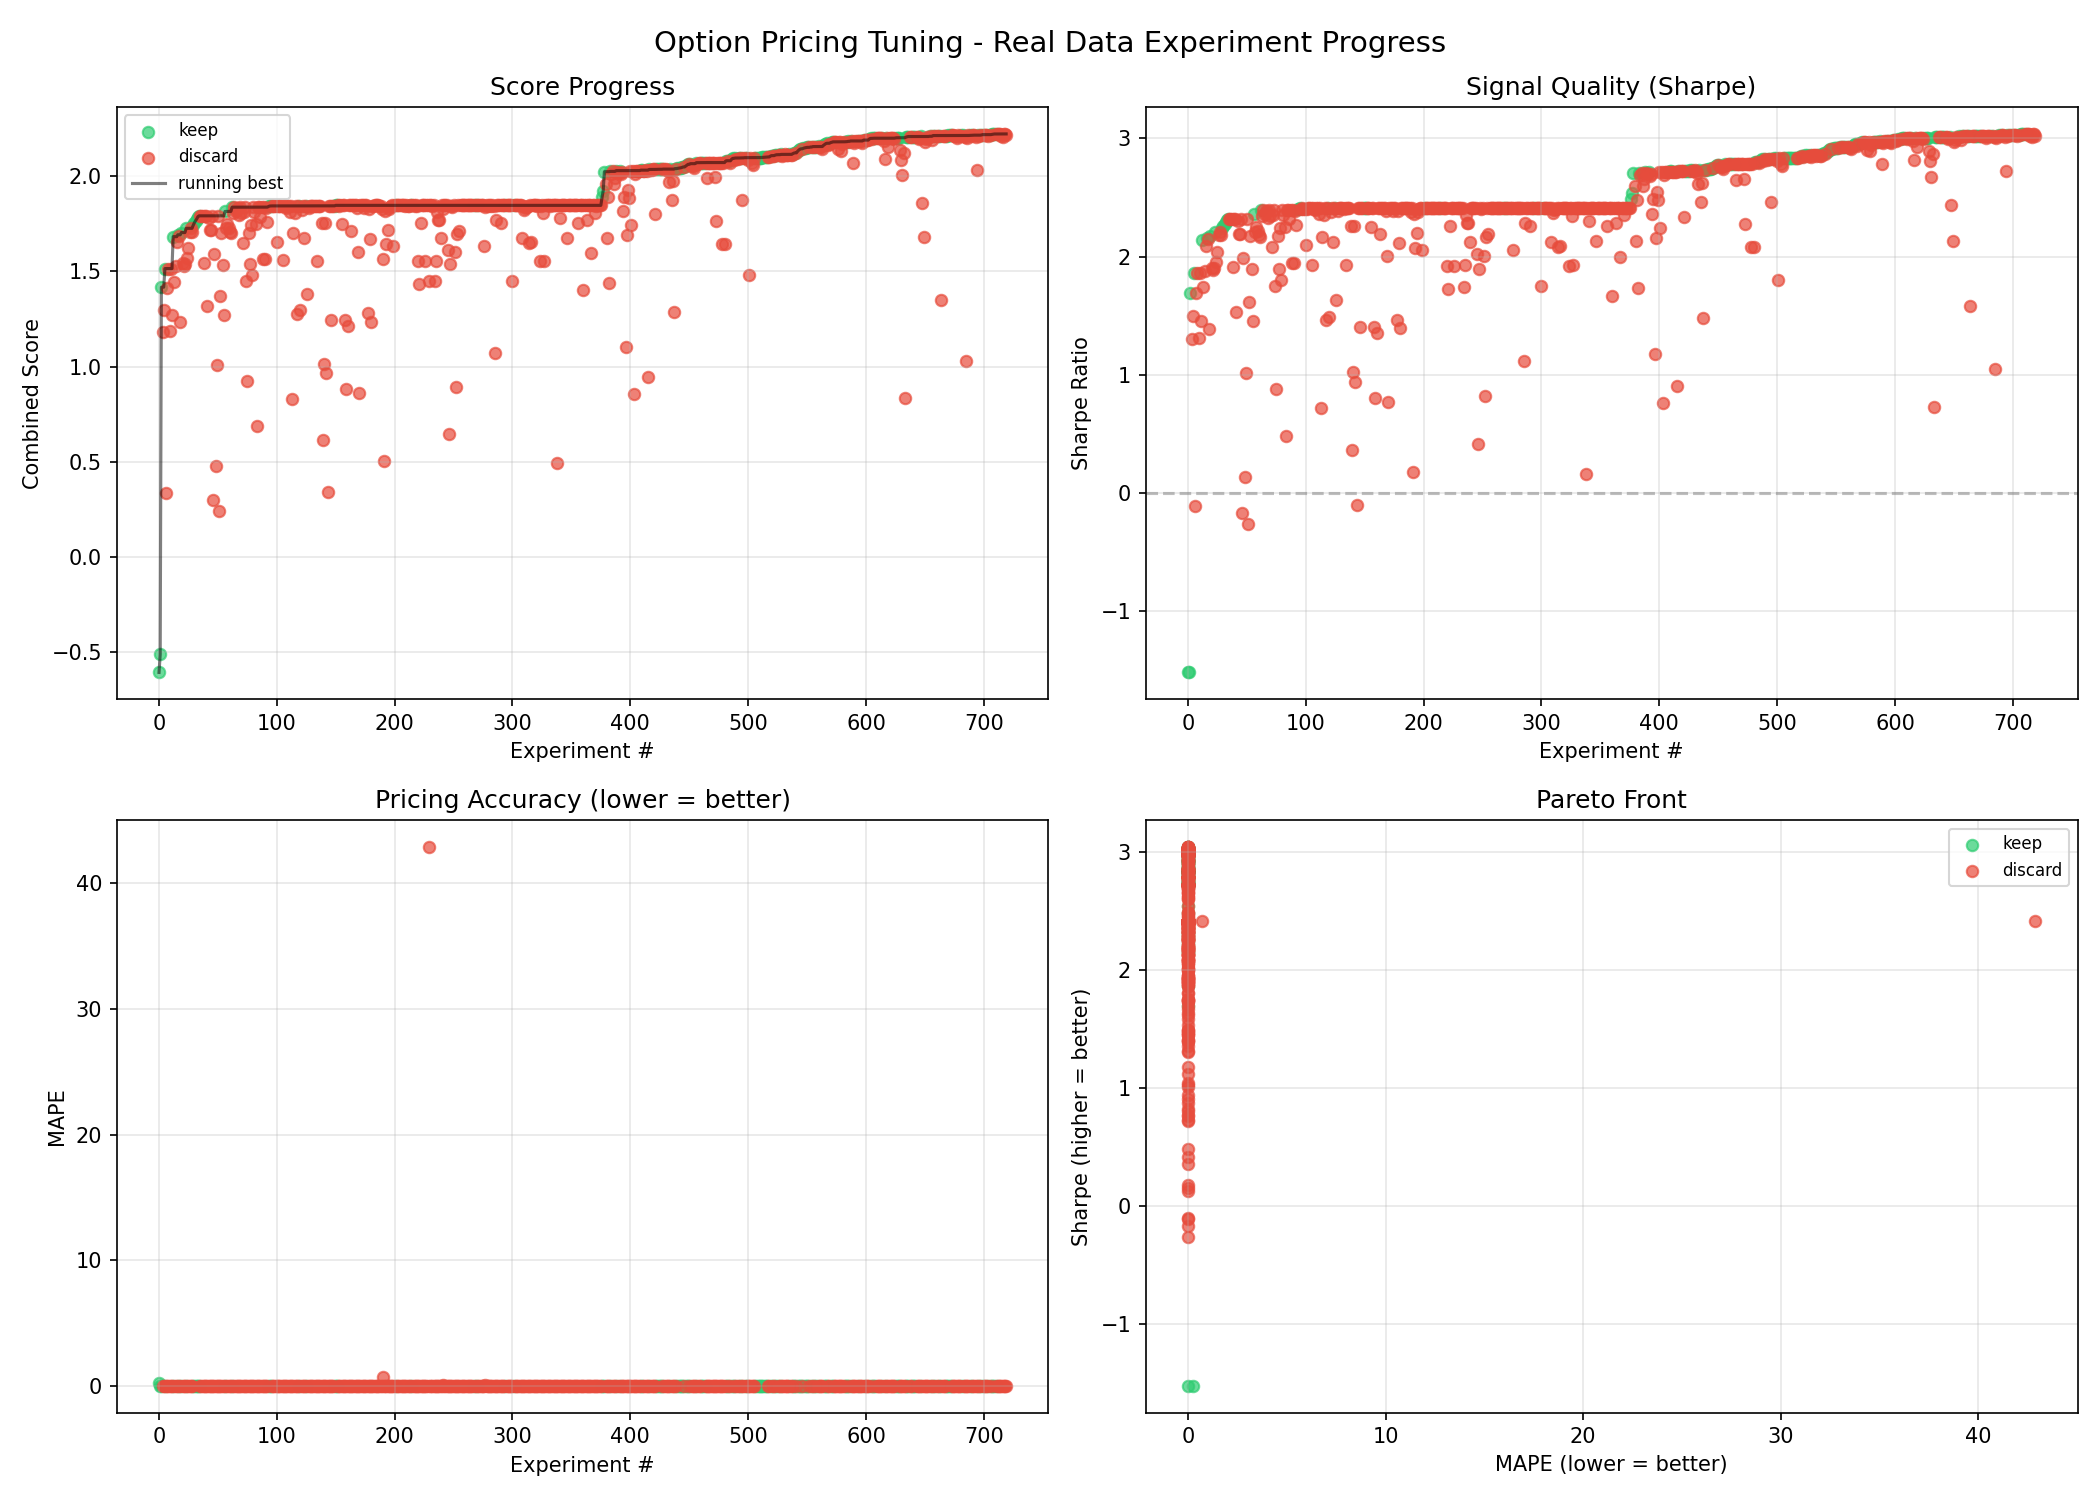
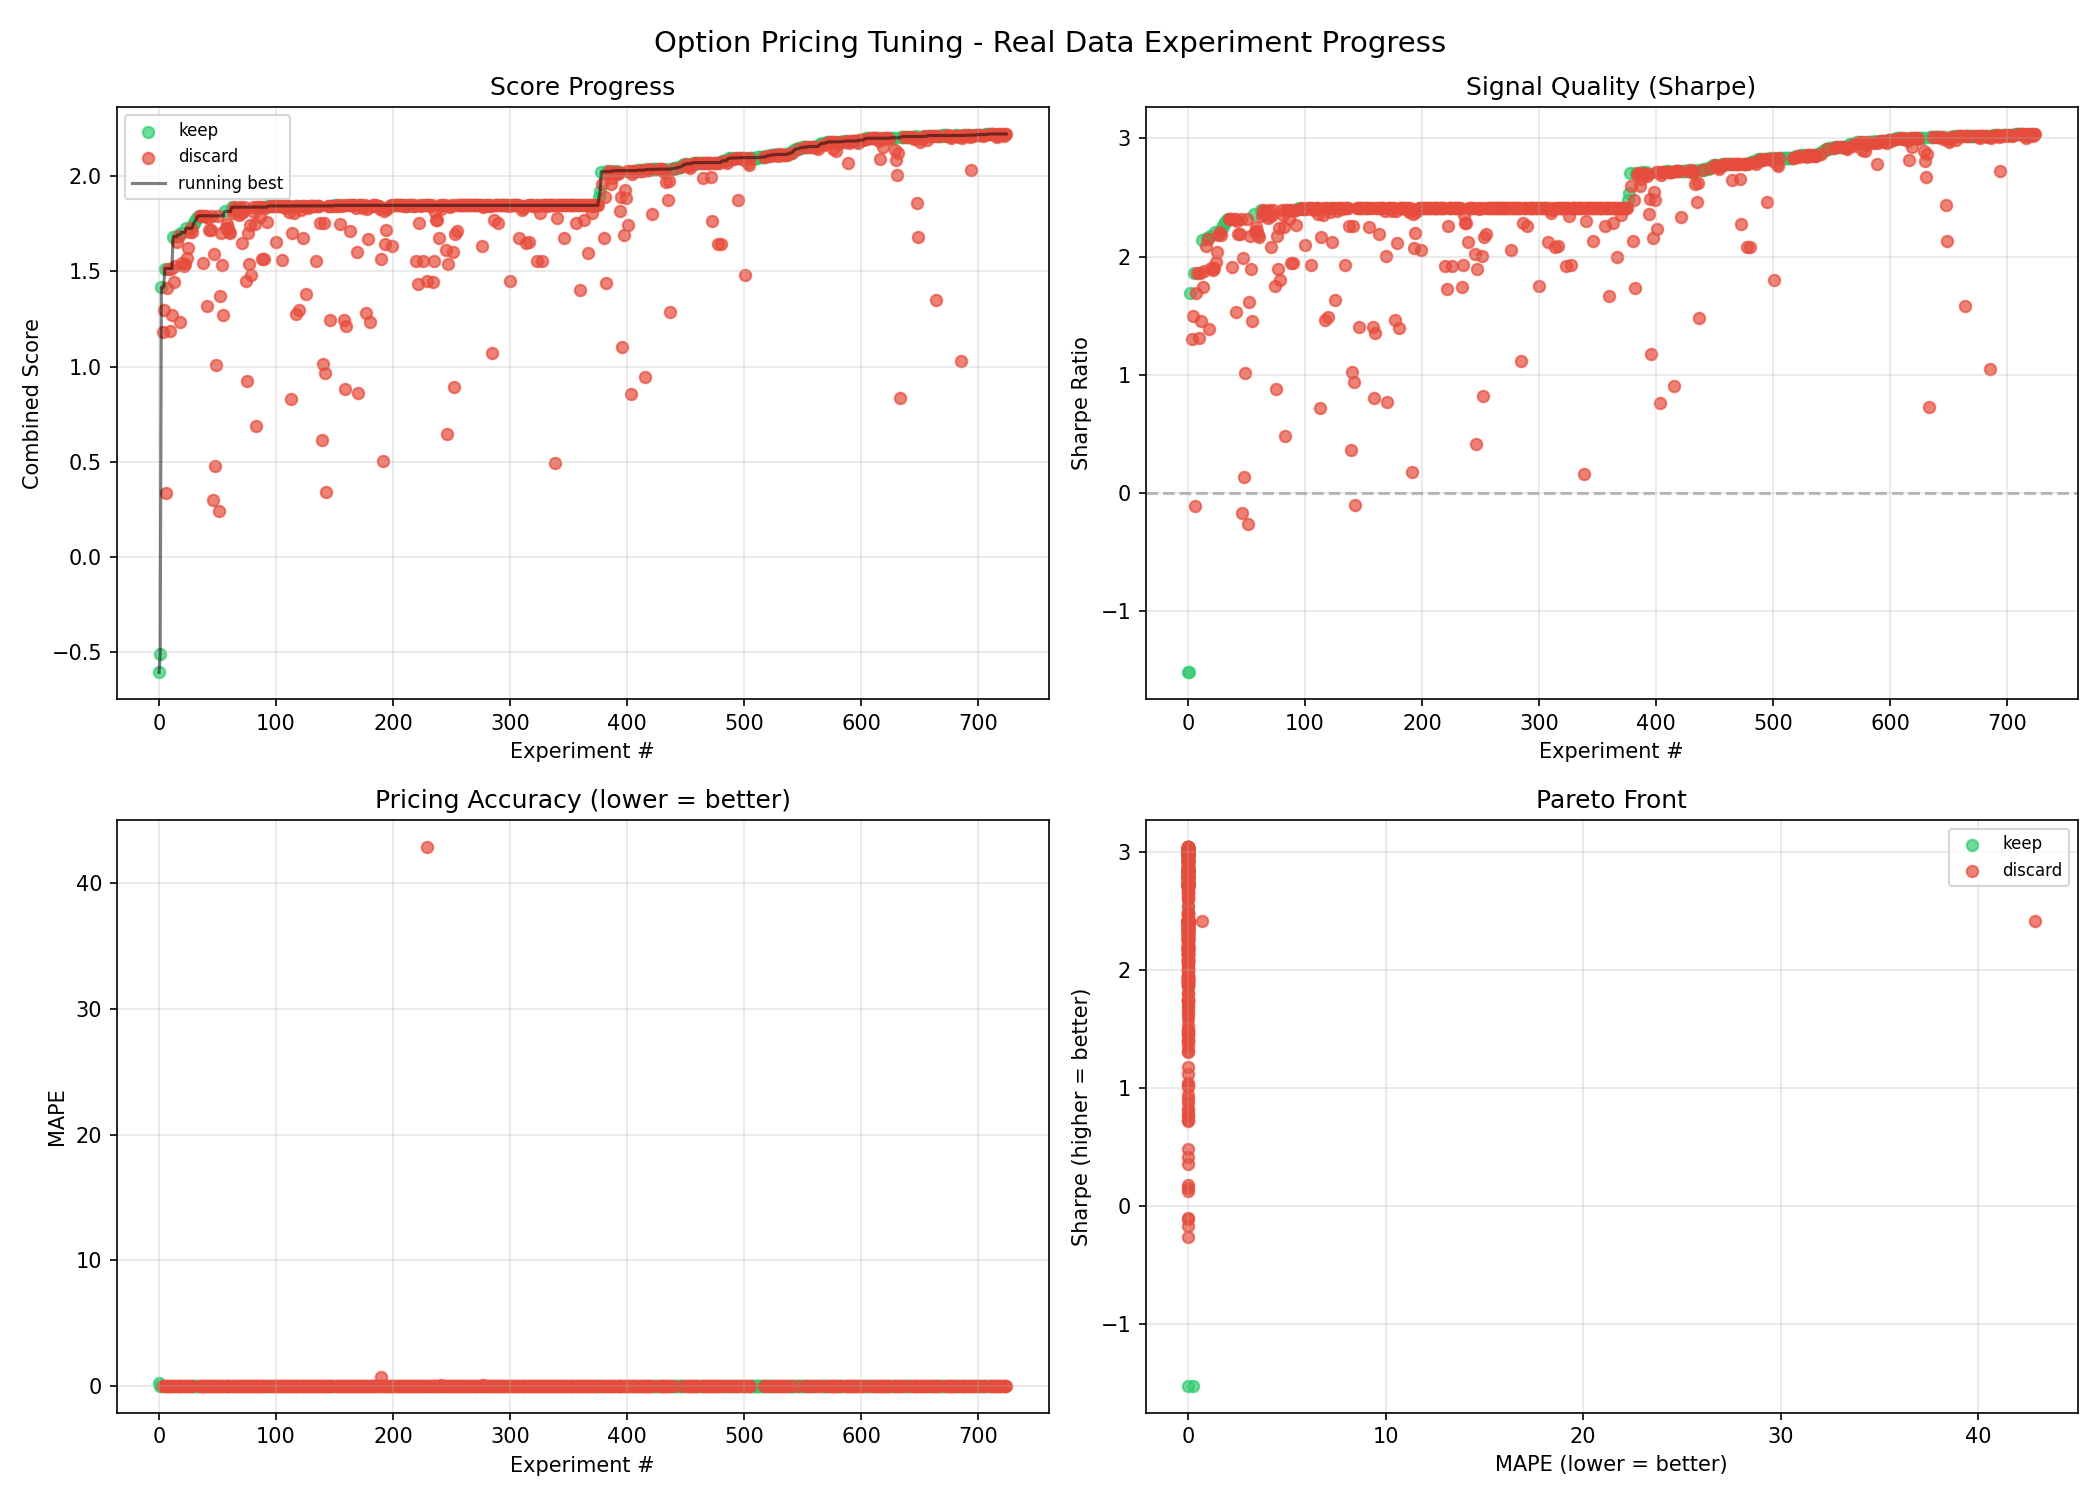
log exp725

diff --git a/README.md b/README.md
@@ -9,12 +9,12 @@ signals using **real stock market data** from Yahoo Finance.
 
 | Metric | Value |
 |---|---|
-| Combined Score | 2.2216 |
-| Sharpe Ratio | 3.0374 |
+| Combined Score | 2.2217 |
+| Sharpe Ratio | 3.0375 |
 | MAPE | 0.002003 |
 | Win Rate | 86.2% |
 | Trades | 29 |
-| Experiments | 720 (163 kept) |
+| Experiments | 725 (164 kept) |
 
 ## How It Works
 
